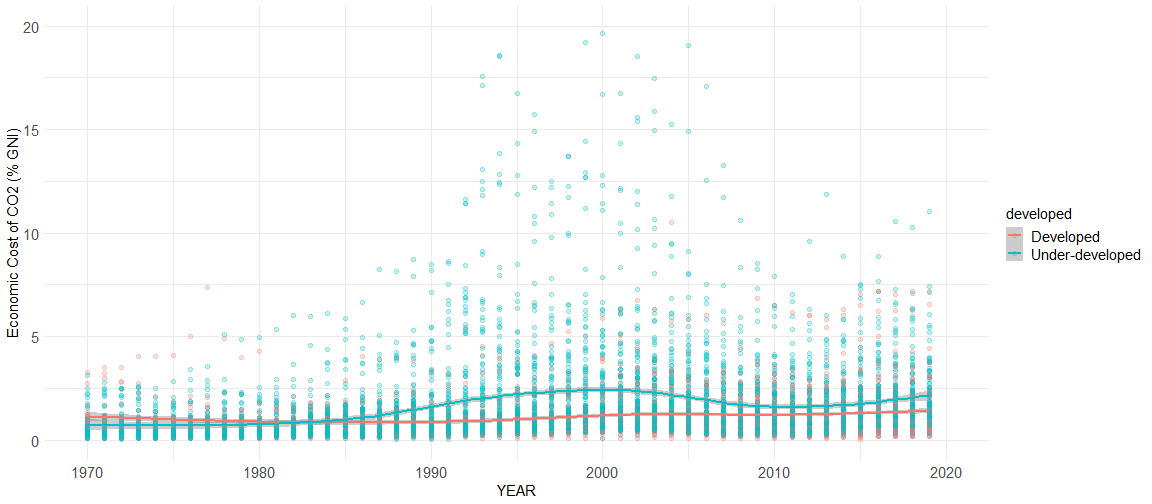
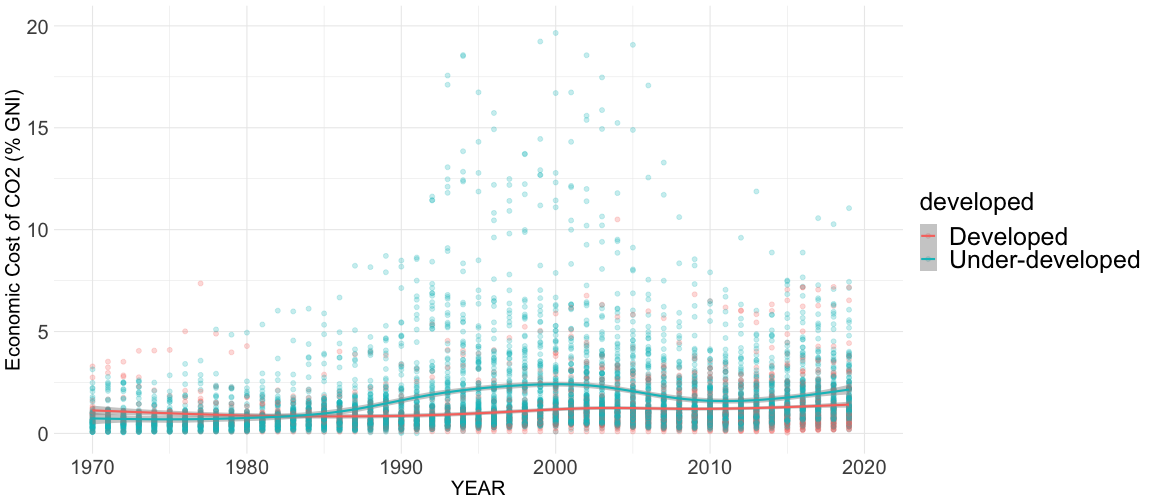
610 updates

diff --git a/GLOA610-environment.html b/GLOA610-environment.html
@@ -1,10 +1,10 @@
 <!DOCTYPE html>
 <html lang="" xml:lang="">
   <head>
-    <title>Environment, Health, and Education   GLOA 610-001</title>
+    <title>MISC.   GLOA 610</title>
     <meta charset="utf-8" />
     <meta name="author" content="Byunghwan Son   George Mason University" />
-    <script src="GLOA610-environment_files/header-attrs-2.11/header-attrs.js"></script>
+    <script src="GLOA610-environment_files/header-attrs-2.13/header-attrs.js"></script>
     <link href="GLOA610-environment_files/remark-css-0.0.1/default.css" rel="stylesheet" />
     <link href="GLOA610-environment_files/remark-css-0.0.1/default-fonts.css" rel="stylesheet" />
     <link rel="stylesheet" href="default" type="text/css" />
@@ -120,38 +120,9 @@ background-color: black
 
 # .Large[Political .yellow[incentive] structure]
 
-# - Bayer &amp; Urpelainen (2016)
-
 # .Large[.green[Old] problems, .red[new] issues]
 
 # - Economist (2019)
-
----
-
-&lt;div class="full-width-tinted"&gt;&lt;br&gt;
-  &lt;h1&gt; .large[Educational Attainment (Primary)] &lt;/h1&gt; 
-&lt;/div&gt;&lt;br&gt;&lt;br&gt;
-
-
-![](GLOA610-environment_files/figure-html/unnamed-chunk-4-1.png)&lt;!-- --&gt;
-
-
----
-class: inverse
-background-image: url(https://guardian.ng/wp-content/uploads/2020/09/education.jpg)
-background-size: contain
-
-
-# .large[How does education .yellow[promote] development?]
-
---
-
-# - Human Development &lt;br&gt; &amp;nbsp;&amp;nbsp; (sufficient .orange[or] necessary?)
-
---
-
-# - Other ways? .yellow[Blattman (2014)]
-
 
 
 ---
@@ -162,7 +133,7 @@ background-size: contain
 &lt;/div&gt;&lt;br&gt;&lt;br&gt;
 
 
-![](GLOA610-environment_files/figure-html/unnamed-chunk-5-1.png)&lt;!-- --&gt;
+![](GLOA610-environment_files/figure-html/unnamed-chunk-4-1.png)&lt;!-- --&gt;
 
 ---
 

diff --git a/GLOA610-environment_files/header-attrs-2.13/header-attrs.js b/GLOA610-environment_files/header-attrs-2.13/header-attrs.js
@@ -1,0 +1,12 @@
+// Pandoc 2.9 adds attributes on both header and div. We remove the former (to
+// be compatible with the behavior of Pandoc < 2.8).
+document.addEventListener('DOMContentLoaded', function(e) {
+  var hs = document.querySelectorAll("div.section[class*='level'] > :first-child");
+  var i, h, a;
+  for (i = 0; i < hs.length; i++) {
+    h = hs[i];
+    if (!/^h[1-6]$/i.test(h.tagName)) continue;  // it should be a header h1-h6
+    a = h.attributes;
+    while (a.length > 0) h.removeAttribute(a[0].name);
+  }
+});
